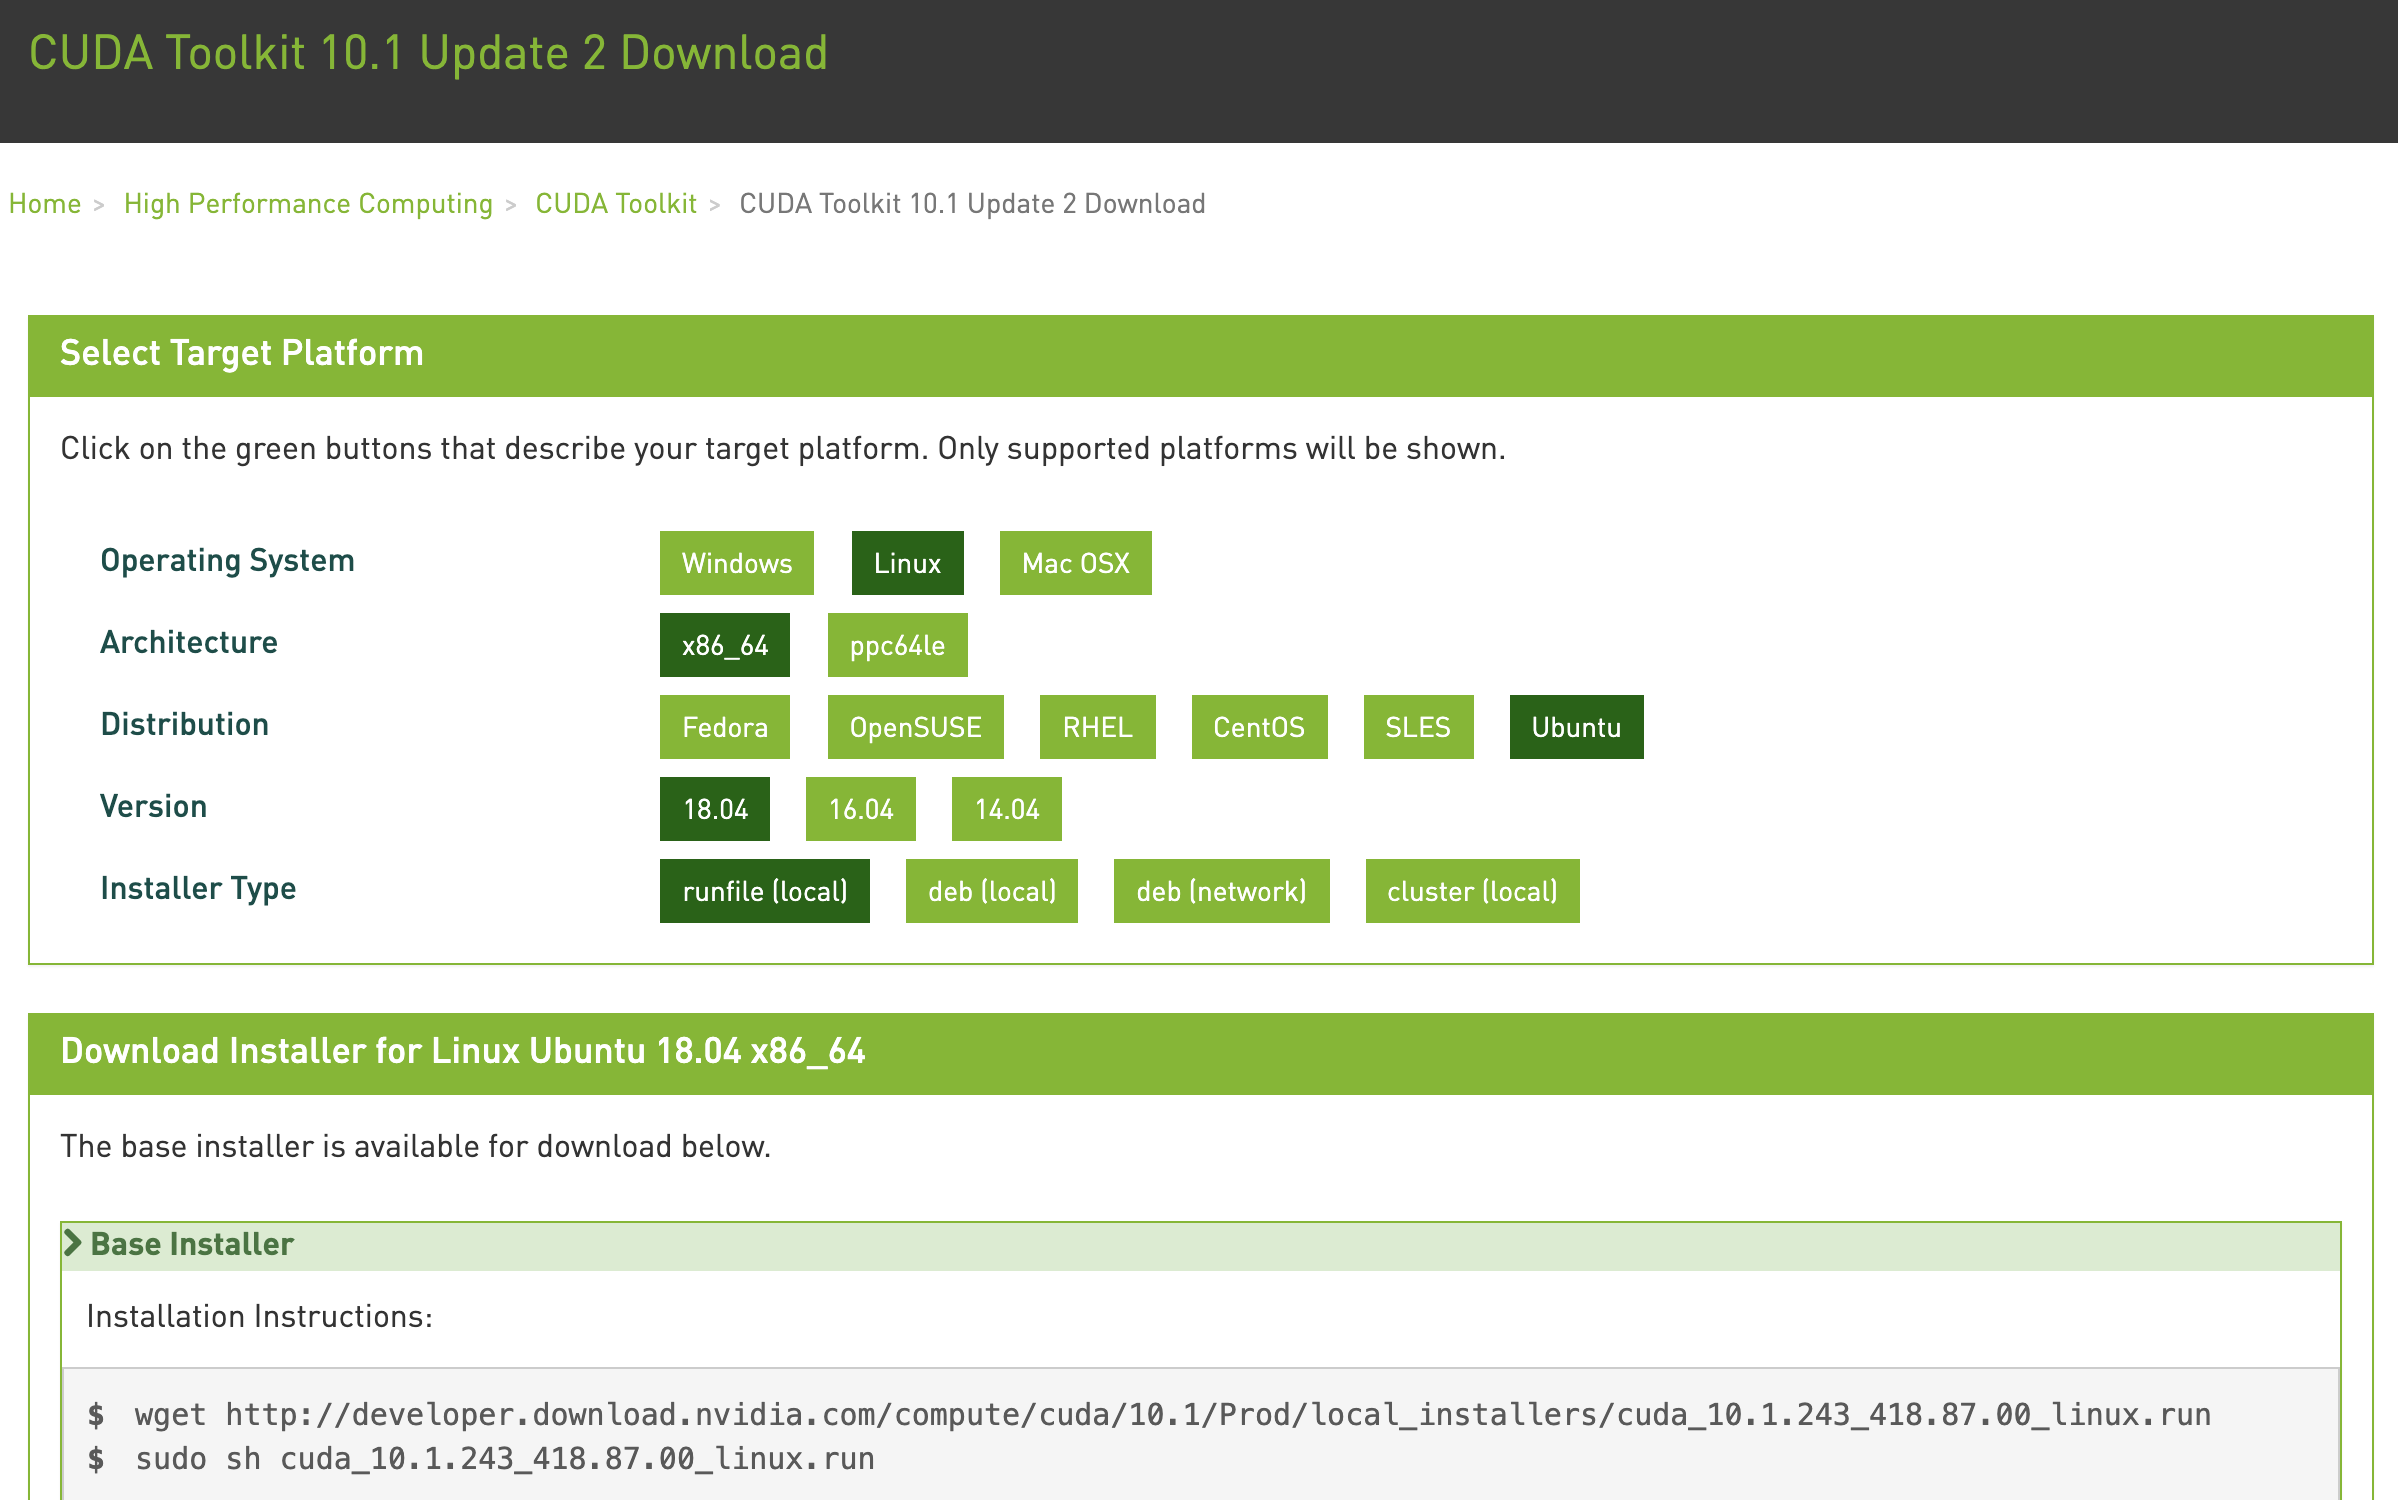
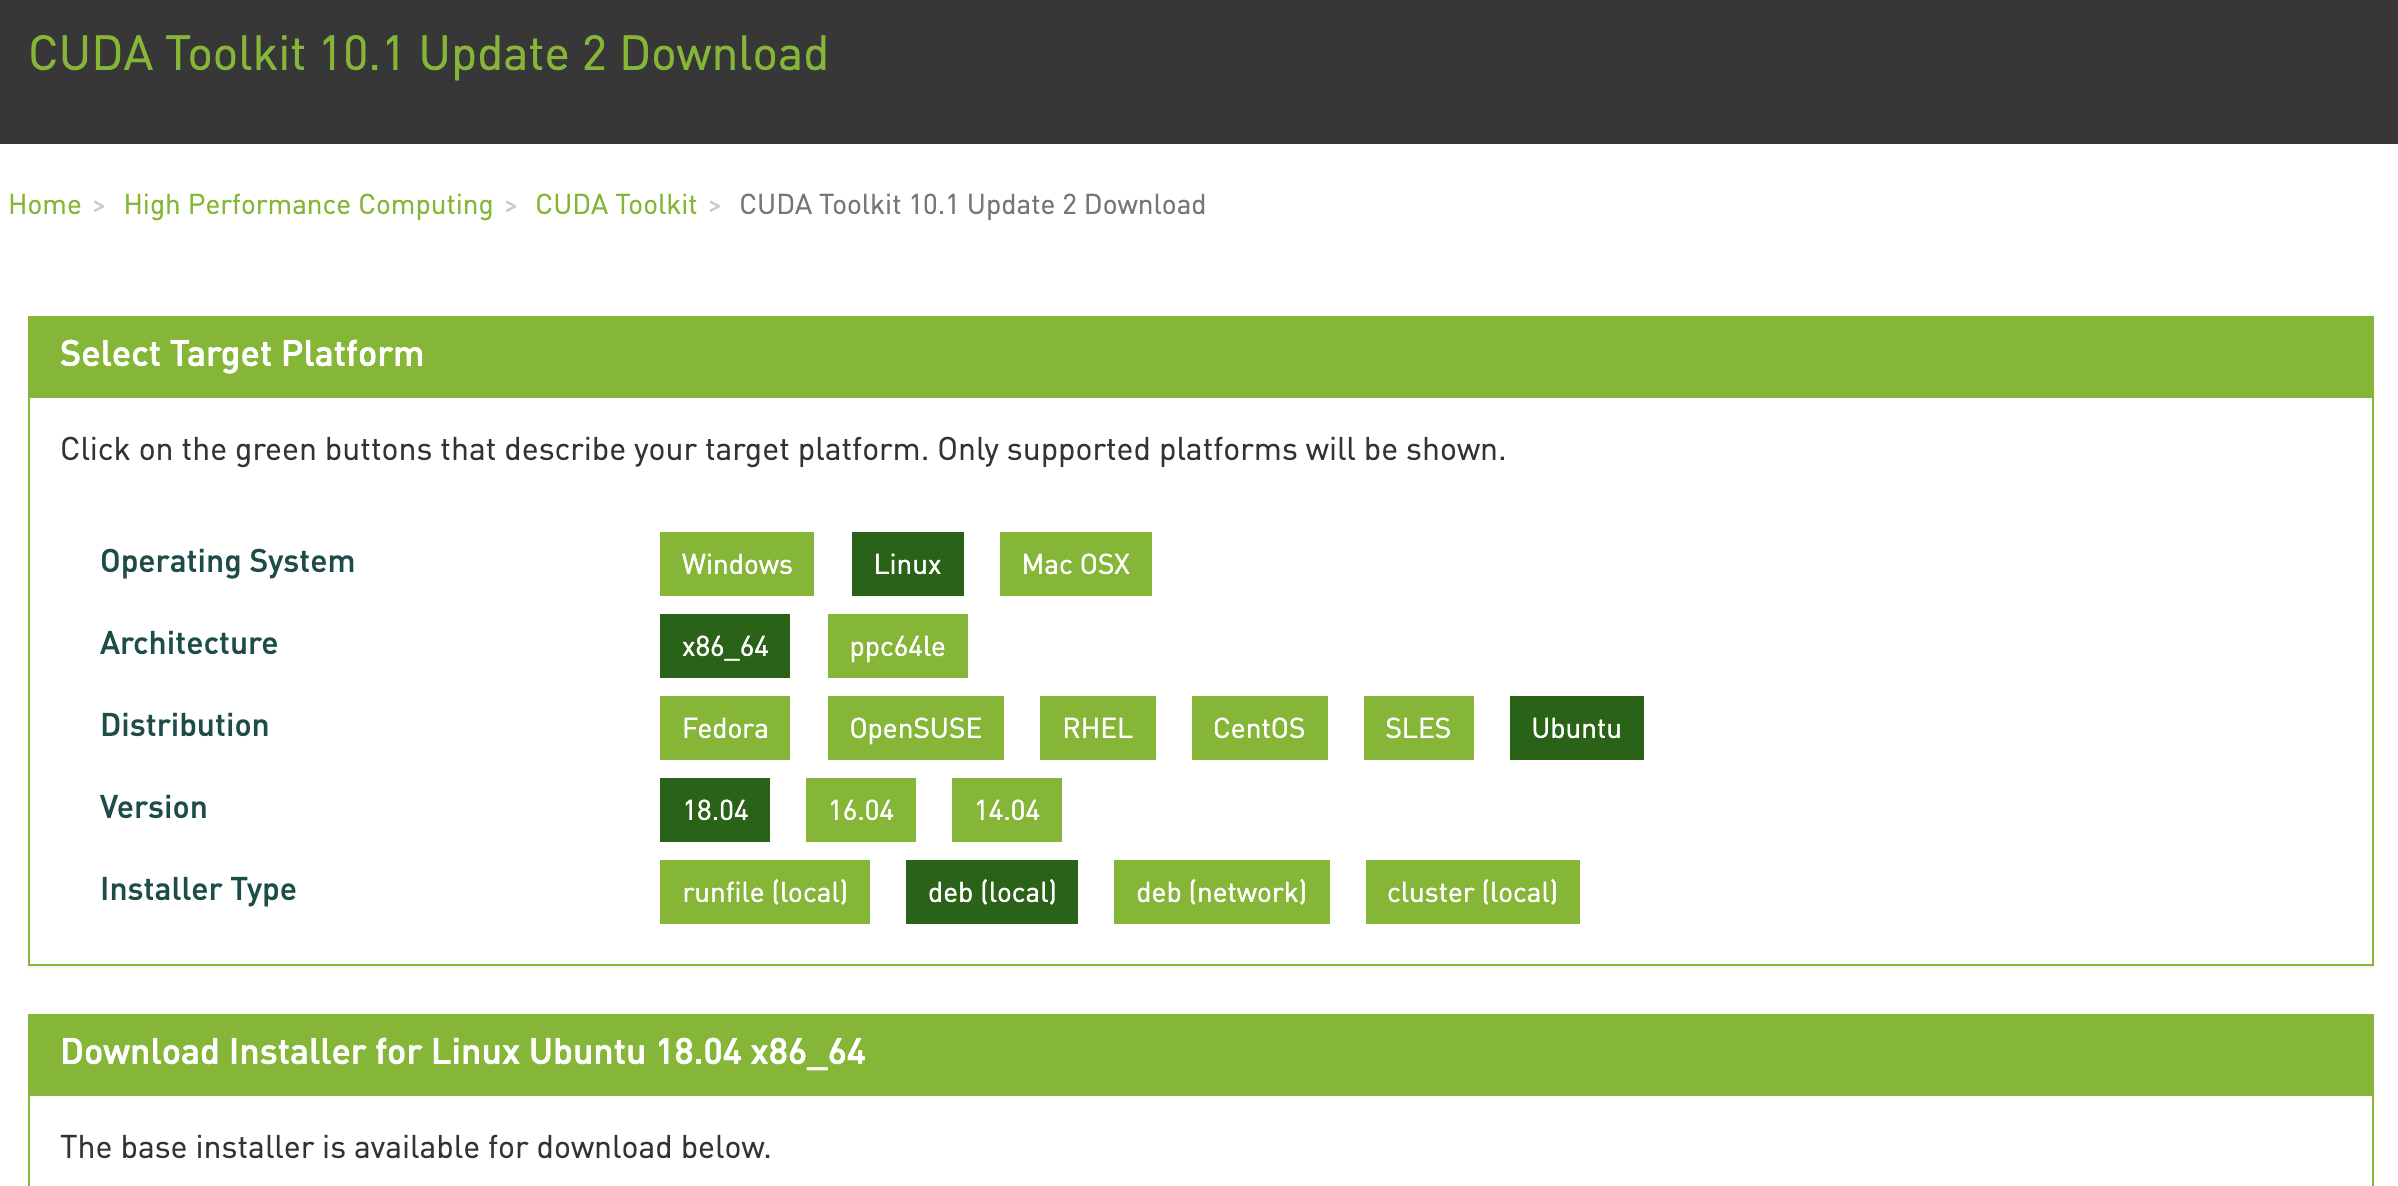
more aws fixes

diff --git a/chapter_appendix_tools/aws.md b/chapter_appendix_tools/aws.md
@@ -155,52 +155,14 @@ Copy the instructions and paste them into the terminal to install
 
 ```bash
 ## paste the copied link from CUDA website
-wget http://developer.download.nvidia.com/compute/cuda/10.1/Prod/local_installers/cuda_10.1.243_418.87.00_linux.run
-sudo sh cuda_10.1.243_418.87.00_linux.run
-## this command line may take a while to run
+wget https://developer.download.nvidia.com/compute/cuda/repos/ubuntu1804/x86_64/cuda-ubuntu1804.pin
+sudo mv cuda-ubuntu1804.pin /etc/apt/preferences.d/cuda-repository-pin-600
+wget http://developer.download.nvidia.com/compute/cuda/10.1/Prod/local_installers/cuda-repo-ubuntu1804-10-1-local-10.1.243-418.87.00_1.0-1_amd64.deb
+sudo dpkg -i cuda-repo-ubuntu1804-10-1-local-10.1.243-418.87.00_1.0-1_amd64.deb
+sudo apt-key add /var/cuda-repo-10-1-local-10.1.243-418.87.00/7fa2af80.pub
+sudo apt-get update
+sudo apt-get -y install cuda
 ```
-
-
-Enter `accept`  for the following inquiry as shown in
-:numref:`fig_cuda_accept`.
-
-```
-┌──────────────────────────────────────────────────────────────────────────┐
-│  End User License Agreement                                              │
-│  --------------------------                                              │
-│                                                                          │
-│  Preface                                                                 │
-│  -------                                                                 │
-│                                                                          │
-│  The Software License Agreement in Chapter 1 and the Supplement          │
-│  in Chapter 2 contain license terms and conditions that govern           │
-│  the use of NVIDIA software. By accepting this agreement, you            │
-│  agree to comply with all the terms and conditions applicable            │
-│  to the product(s) included herein.                                      │
-│                                                                          │
-│  NVIDIA Driver                                                           │
-│                                                                          │
-│─                                                                         │
-│ Do you accept the above EULA? (accept/decline/quit):                     │
-│ accept                                                                   │
-
-```
-
-
-Select the driver, toolkit and documentation to install drivers.
-
-```
-CUDA Installer 
-- [X] Driver 
-     [X] 418.87.00
-+ [X] CUDA Toolkit 10.1
-  [ ] CUDA Samples 10.1
-  [ ] CUDA Demo Suite 10.1
-  [X] CUDA Documentation 10.1
-  Options 
-  Install 
-```
-
 
 After installing the program, run the following command to view the GPUs.
 
@@ -228,6 +190,7 @@ First, to simplify the installation, you need to install [Miniconda](https://con
 wget https://repo.anaconda.com/miniconda/Miniconda3-latest-Linux-x86_64.sh
 sh Miniconda3-latest-Linux-x86_64.sh
 ```
+
 
 You need to answer the following questions:
 
@@ -264,14 +227,12 @@ wget https://d2l.ai/d2l-en.zip
 unzip d2l-en.zip && rm d2l-en.zip
 ```
 
-Then create the conda `d2l` environment and enter `y` for the proceed inquiry as shown in :numref:`fig_conda_create_d2l`.
+
+Then create the conda `d2l` environment and enter `y` to proceed with the installation. 
 
 ```bash
 conda create --name d2l 
-```
-Accept the prompt to generate the package.
 
-```
 ## Package Plan ##
 
   environment location: /home/ubuntu/.conda/envs/d2l
@@ -287,16 +248,13 @@ conda install pip
 ```
 
 
-Finally, install `MXNet` and `d2l`.
+Finally, install `MXNet` and `d2l`. The postfix `cu101mkl` means that this is the CUDA 10.1 variant with Intel MKL support. For different versions, say only CUDA 10.0, you would want to choose `cu100` instead. 
 
 ```bash
 ## mxnet
 pip install mxnet-cu101mkl --pre
-
-## d2l
 pip install git+https://github.com/d2l-ai/d2l-en@numpy2
 ```
-
 
 You can test quickly whether everything went well as follows:
 
@@ -358,3 +316,7 @@ environments.
 ## [Discussions](https://discuss.mxnet.io/t/2399)
 
 ![](../img/qr_aws.svg)
+
+```{.python .input}
+
+```
